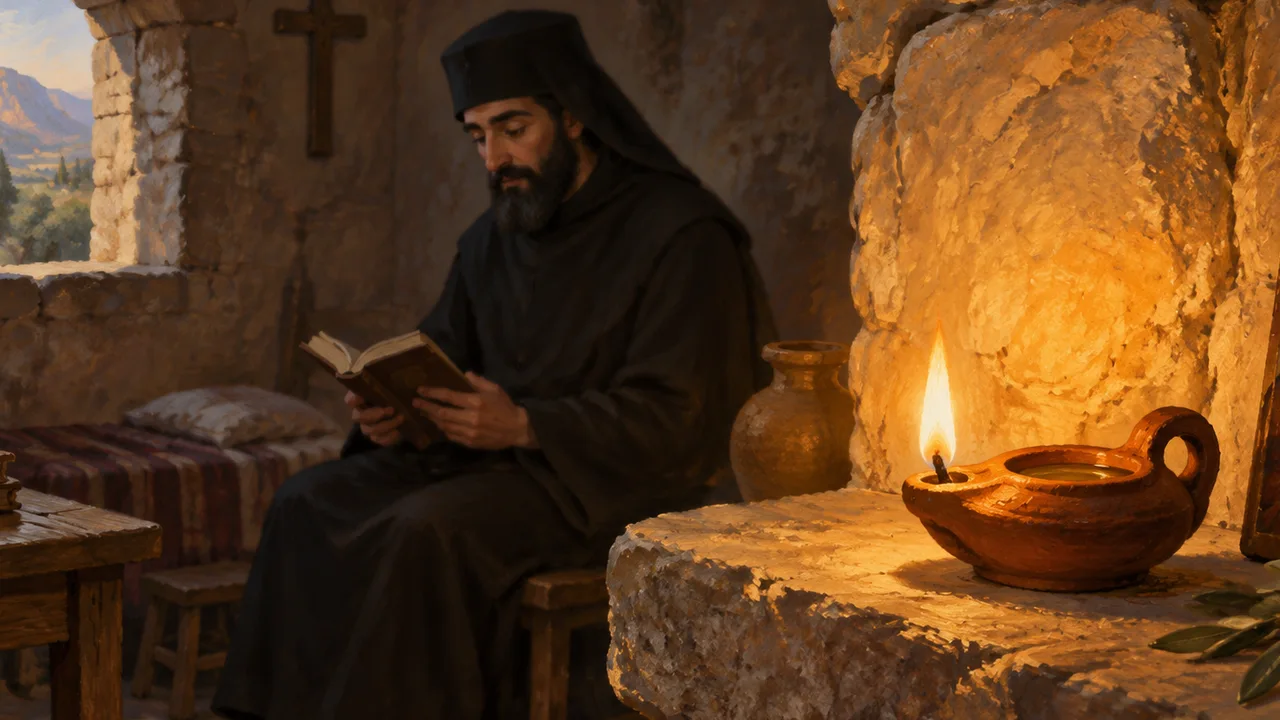
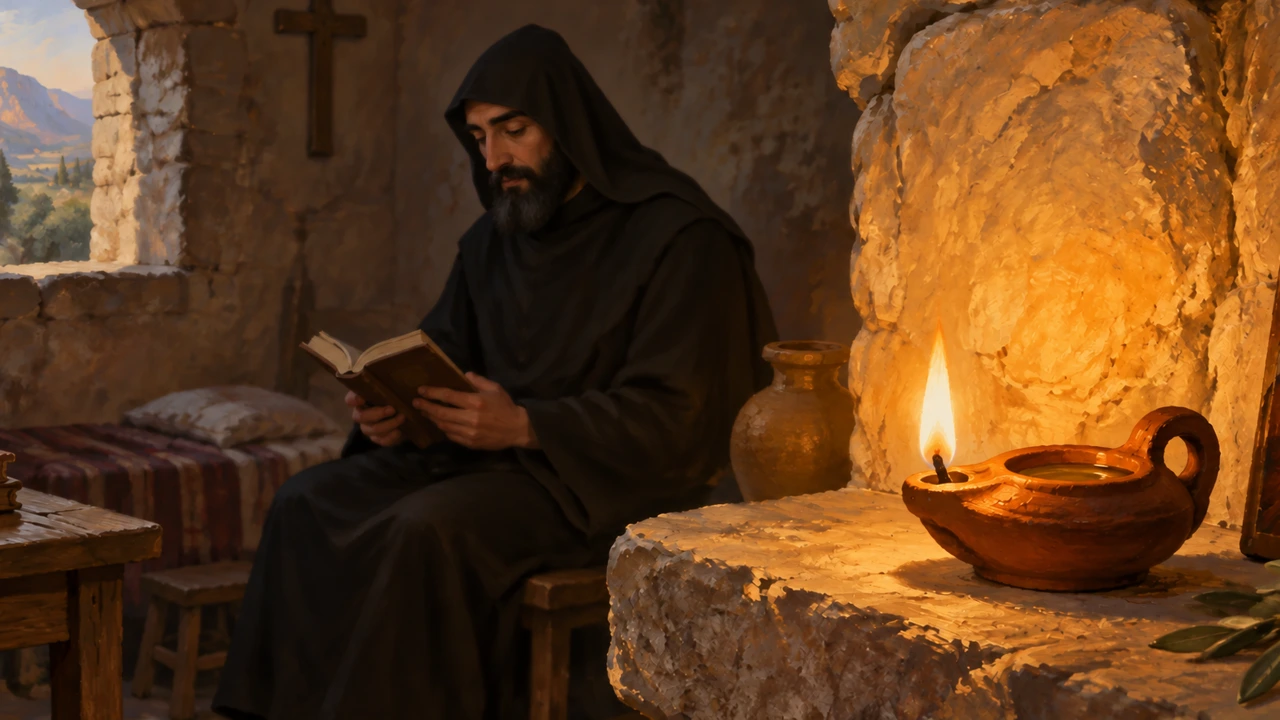
charbel-v2: draped-hood art correction (pages 4/5/6/7) + art-plan spec fix (#736)
* charbel-v2 art: draped Maronite hood on pages 4/5/6/7 (was stiff flat-topped cap); art-plan spec corrected (root cause)

* charbel-v2: cache-bust corrected plates as page-0N-v2.webp (builder rejects query strings in asset paths; new URL busts the 7d cache)

diff --git a/charbel-v2-story-data.js b/charbel-v2-story-data.js
@@ -61,7 +61,7 @@ window.CHARBEL_V2_STORY_EN = [
     ]
   },
   {
-    "illustration": "./media/storybook-charbel-v2/images/page-04.webp",
+    "illustration": "./media/storybook-charbel-v2/images/page-04-v2.webp",
     "title": "Learning with a Holy Teacher",
     "body": "After his vows, Charbel was sent to study at the monastery of Saints Cyprian and Justina in Kfifan. His teacher there was a wise and humble monk named Nimatullah al-Hardini, who would one day become a saint himself. Charbel studied Scripture, the liturgy, and the teachings of the Church with a quiet and listening heart. He was known as a student who worked hard, obeyed cheerfully, and spoke little. A holy teacher was helping to shape a holy student.",
     "prayer": "",
@@ -81,7 +81,7 @@ window.CHARBEL_V2_STORY_EN = [
     ]
   },
   {
-    "illustration": "./media/storybook-charbel-v2/images/page-05.webp",
+    "illustration": "./media/storybook-charbel-v2/images/page-05-v2.webp",
     "title": "Father Charbel",
     "body": "On July 23, 1859, Charbel was ordained a priest, and he returned to Annaya as Father Charbel. For sixteen years he shared the daily life of his brother monks: their work in the fields, their simple meals, and their long hours of prayer. He rose in the dark for the first prayers of the day, and he gave his whole heart to the holy Mass. His brothers saw a man who was always obedient, always gentle, and always close to God. The hidden years were making him ready.",
     "prayer": "",
@@ -100,7 +100,7 @@ window.CHARBEL_V2_STORY_EN = [
     ]
   },
   {
-    "illustration": "./media/storybook-charbel-v2/images/page-06.webp",
+    "illustration": "./media/storybook-charbel-v2/images/page-06-v2.webp",
     "title": "The Little Hermitage",
     "body": "In February 1875, Father Charbel received permission for something he had desired for a long time. He moved up the mountain to a tiny hermitage named for Saints Peter and Paul, where a few hermits lived in silence and simplicity. There he prayed deep into the night, fasted, and worked with his hands in the fields. He owned almost nothing, and he asked for nothing. For twenty-three years, that little hermitage was his whole world, and God was his whole life.",
     "prayer": "",
@@ -120,7 +120,7 @@ window.CHARBEL_V2_STORY_EN = [
     ]
   },
   {
-    "illustration": "./media/storybook-charbel-v2/images/page-07.webp",
+    "illustration": "./media/storybook-charbel-v2/images/page-07-v2.webp",
     "title": "A Story They Tell: The Lamp",
     "body": "The monks of Annaya lovingly tell a story from those quiet years. One night, they say, someone playfully filled Father Charbel's lamp with water instead of oil, and the lamp went on shining all the same. This is a tradition, a story handed down with love, not one of the miracles the Church examined when it made him a saint. Still, it tells us something true about how his brothers saw him. They believed God was near to this gentle man, and his light did not go out.",
     "prayer": "",

diff --git a/story-production/charbel-v2/art-plan.md b/story-production/charbel-v2/art-plan.md
@@ -1,6 +1,6 @@
 # Saint Charbel storybook v2: scene plan (new art style, matches series)
 
-All images are imaginative painterly 16:9 scenes, never documentary images, and never copies of the historic photographs of Charbel. Keep the series' Levantine mountain palette of warm apricot, cream, olive, and blue; child-facing mood warm and welcoming without minimizing sorrow. Consistent hero: Youssef is a dark-haired Lebanese boy in simple 19th-century mountain village dress; young monk Charbel wears the black Maronite monastic habit with the monastic cap, dark beard; older Father Charbel has a long white beard and the same black habit. No stigmata imagery, no beams of literal heavenly light except the gentle, clearly-labeled lamp and tomb-light scenes, no text painted inside images.
+All images are imaginative painterly 16:9 scenes, never documentary images, and never copies of the historic photographs of Charbel. Keep the series' Levantine mountain palette of warm apricot, cream, olive, and blue; child-facing mood warm and welcoming without minimizing sorrow. Consistent hero: Youssef is a dark-haired Lebanese boy in simple 19th-century mountain village dress; young monk Charbel wears the black Maronite monastic habit with the soft draped monastic hood (plain cloth draping over the head and shoulders), dark beard; older Father Charbel has a long white beard and the same black habit and draped hood. NEVER a stiff flat-topped cap, kamilavka, or any structured/cylindrical headwear on any monk - the standing rule is the Maronite draped hood/cape only. No stigmata imagery, no beams of literal heavenly light except the gentle, clearly-labeled lamp and tomb-light scenes, no text painted inside images.
 
 | Page | Narrative | Scene | Visual guardrail |
 |---|---|---|---|
@@ -15,6 +15,8 @@ All images are imaginative painterly 16:9 scenes, never documentary images, and 
 | 9 | Tomb lights and canonization | Pilgrims of many ages and countries walking toward the Annaya monastery at dawn, a soft light above the tomb chapel | Light reported, not asserted: keep it a warm glow, no laser beams, no crowd faces copying real people. |
 | 10 | Points of reflection | Modern-day children: one praying quietly by a window, one washing dishes, one feeding an animal, warm evening light | Clearly modern clothes, distinct from historical scenes; reflection text lives in the player as HTML, not painted in the image. |
 
-Render at 16:9 (1429x804 source), inspect pixels per page, reject continuity errors (wrong beard era, wrong habit, impossible architecture), then convert to 1280x720 WebP center-cropped. Illustrations are original composite scenes, not historical footage - the page says so in its production note.
+Render at 16:9 (1429x804 source), inspect pixels per page, reject continuity errors (wrong beard era, wrong habit, stiff or flat-topped headwear, impossible architecture), then convert to 1280x720 WebP center-cropped. Illustrations are original composite scenes, not historical footage - the page says so in its production note.
 
 Final art review, September 29, 2026: ten original 1429x804 illustrations were rendered and inspected pixel by pixel, then exported at 1280x720 WebP. Page 5 was corrected with an image edit because the first render showed an elderly white-bearded celebrant at his 1859 ordination; the final plate has a dark-bearded young priest. Page 10 uses the neutral `birth` scene treatment in the player to avoid the original `legacy` filter that obscured the modern children. No lettering, historical-photo copying, graphic illness or death, or exaggerated miracle beams appeared in the final plates. The pages are imaginative composite scenes and are labeled as such in the player.
+
+Headwear correction, October 11, 2026: pages 4, 5, 6 and 7 were re-rendered via targeted image edit after studio review found stiff flat-topped caps (the plan text above said "monastic cap" - root cause, now corrected). All monastic figures now wear the soft draped Maronite hood; page 8 was adjudicated clean (all three lantern monks already draped). Page texts, compositions, palettes and all other figures unchanged.
